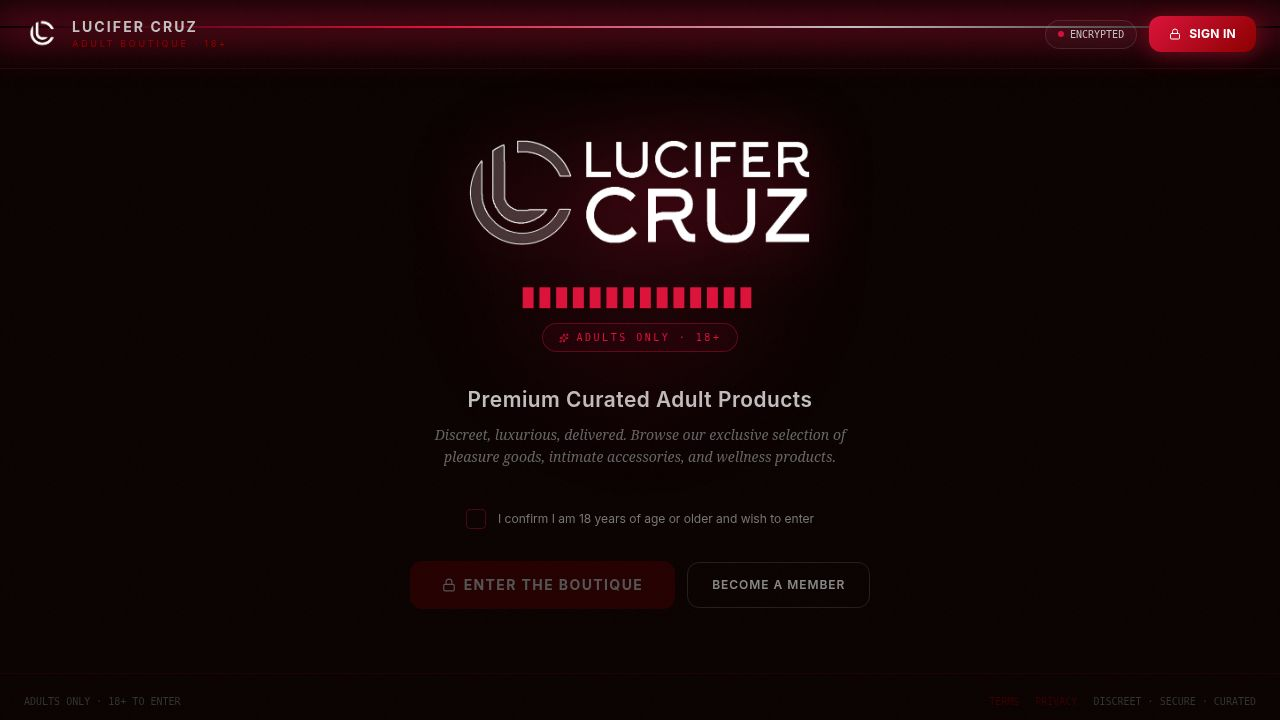
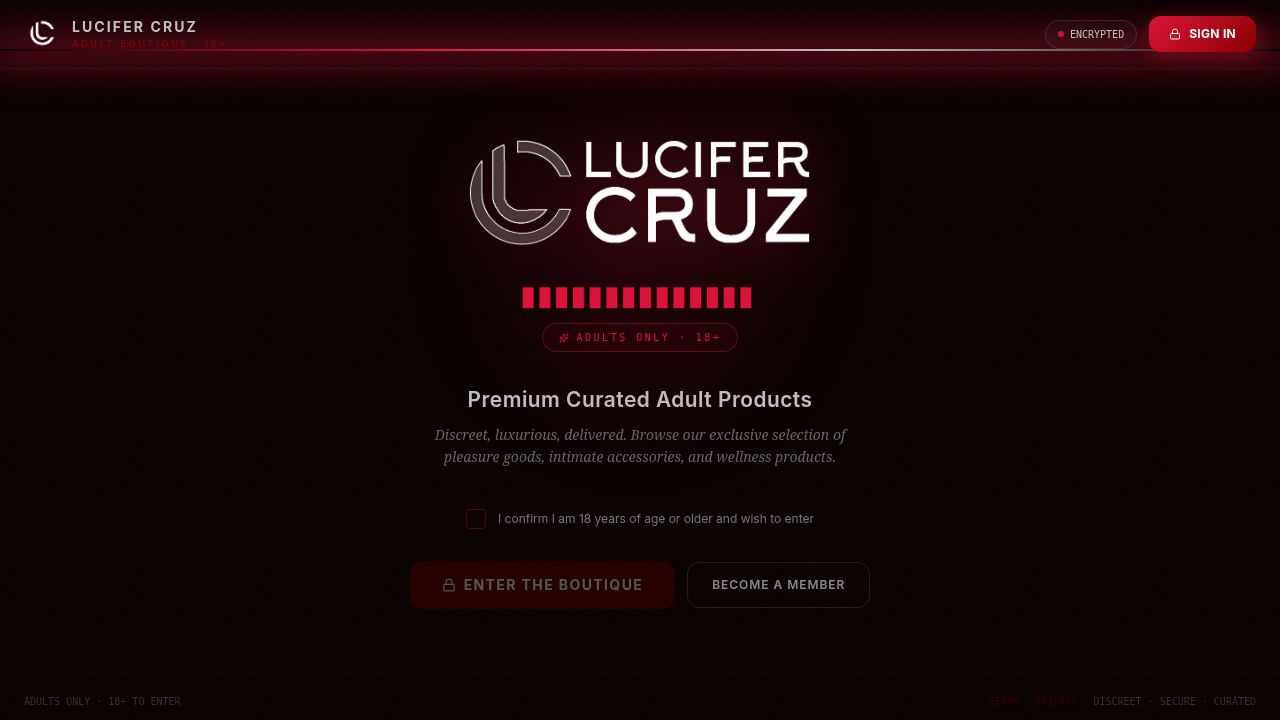
Update AI concierge character visuals with new imagery
Replace AI concierge's SVG avatar with new image assets for both chat icons and hero display, updating component references and associated metadata.

Replit-Commit-Author: Agent
Replit-Commit-Session-Id: e8a4b97a-1022-4c73-bcdc-46c5050eaf48
Replit-Commit-Checkpoint-Type: full_checkpoint
Replit-Commit-Event-Id: fe19ee9b-95f5-48da-8330-2e5466f7036d
Replit-Commit-Screenshot-Url: https://storage.googleapis.com/screenshot-production-us-central1/d16275c8-2423-4286-ba97-f9ea25b11f13/e8a4b97a-1022-4c73-bcdc-46c5050eaf48/nlFno02
Replit-Helium-Checkpoint-Created: true

Changed region(s): [[0.0, 0.0, 1.0, 0.1222]]

diff --git a/artifacts/platform/src/pages/ai-concierge.tsx b/artifacts/platform/src/pages/ai-concierge.tsx
@@ -48,163 +48,108 @@ function BackgroundField() {
   );
 }
 
-// ─── Zappy the Concierge Character ───────────────────────────────────────────
+// ─── Zappy Avatar Components ─────────────────────────────────────────────────
 type ZappyMood = "idle" | "thinking" | "speaking";
 
-const MOODS: Record<ZappyMood, { bodyA: string; bodyB: string; glowA: string; glowB: string; mouthD: string }> = {
-  idle:     { bodyA: "#3B82F6", bodyB: "#1E3A8A", glowA: "rgba(59,130,246,0.7)",  glowB: "rgba(59,130,246,0.2)",  mouthD: "M 30 64 Q 50 76 70 64" },
-  thinking: { bodyA: "#06B6D4", bodyB: "#164E63", glowA: "rgba(6,182,212,0.7)",   glowB: "rgba(6,182,212,0.2)",   mouthD: "M 38 62 Q 50 66 62 62" },
-  speaking: { bodyA: "#8B5CF6", bodyB: "#2E1065", glowA: "rgba(139,92,246,0.75)", glowB: "rgba(139,92,246,0.2)",  mouthD: "M 28 58 Q 50 78 72 58" },
+const MOOD_GLOWS: Record<ZappyMood, { a: string; b: string; ring: string }> = {
+  idle:     { a: "rgba(59,130,246,0.7)",  b: "rgba(59,130,246,0.15)",  ring: "#3B82F6" },
+  thinking: { a: "rgba(6,182,212,0.7)",   b: "rgba(6,182,212,0.15)",   ring: "#06B6D4" },
+  speaking: { a: "rgba(139,92,246,0.75)", b: "rgba(139,92,246,0.15)",  ring: "#8B5CF6" },
 };
 
-function ZappyAvatar({ size = 96, mood = "idle" }: { size?: number; mood?: ZappyMood }) {
+// Small chat-bubble avatar — icon image in a rounded square with pulsing glow
+function ZappyAvatar({ size = 36, mood = "idle" as ZappyMood }: { size?: number; mood?: ZappyMood }) {
   const shouldReduceMotion = useReducedMotion();
-  const [pupil, setPupil] = useState({ x: 0, y: 0 });
-  const [blinkLeft, setBlinkLeft] = useState(false);
-  const [blinkRight, setBlinkRight] = useState(false);
-  const m = MOODS[mood];
+  const { a, ring } = MOOD_GLOWS[mood];
+  return (
+    <motion.div
+      className="relative shrink-0 overflow-hidden"
+      style={{
+        width: size,
+        height: size,
+        borderRadius: size * 0.28,
+        border: `1px solid ${ring}55`,
+        boxShadow: `0 0 ${size * 0.5}px ${a}`,
+      }}
+      animate={shouldReduceMotion ? {} : {
+        boxShadow: [
+          `0 0 ${size * 0.5}px ${a}`,
+          `0 0 ${size * 0.9}px ${a}`,
+          `0 0 ${size * 0.5}px ${a}`,
+        ],
+      }}
+      transition={{ duration: 2, repeat: Infinity, ease: "easeInOut" }}
+    >
+      <img
+        src="/zappy-avatar.png"
+        alt="Zappy"
+        className="w-full h-full object-cover object-top"
+        style={{ filter: "brightness(1.05) contrast(1.05)" }}
+      />
+    </motion.div>
+  );
+}
 
-  // Randomized eye movement
-  useEffect(() => {
-    if (shouldReduceMotion) return;
-    let t: ReturnType<typeof setTimeout>;
-    const move = () => {
-      setPupil({ x: (Math.random() - 0.5) * 5, y: (Math.random() - 0.5) * 3.5 });
-      t = setTimeout(move, 1400 + Math.random() * 2200);
-    };
-    t = setTimeout(move, 800);
-    return () => clearTimeout(t);
-  }, [shouldReduceMotion]);
-
-  // Randomized blinking
-  useEffect(() => {
-    if (shouldReduceMotion) return;
-    let t: ReturnType<typeof setTimeout>;
-    const blink = () => {
-      const both = Math.random() > 0.3;
-      setBlinkLeft(true);
-      if (both) setBlinkRight(true);
-      setTimeout(() => { setBlinkLeft(false); setBlinkRight(false); }, 120);
-      t = setTimeout(blink, 2800 + Math.random() * 3500);
-    };
-    t = setTimeout(blink, 1500);
-    return () => clearTimeout(t);
-  }, [shouldReduceMotion]);
+// Large hero avatar — full-body portrait with orbital sparks + float
+function ZappyHero({ size = 120, mood = "idle" as ZappyMood }: { size?: number; mood?: ZappyMood }) {
+  const shouldReduceMotion = useReducedMotion();
+  const { a, b, ring } = MOOD_GLOWS[mood];
+  const h = Math.round(size * 1.42);
 
   return (
-    <div className="relative flex-shrink-0 select-none" style={{ width: size, height: size }}>
+    <motion.div
+      className="relative shrink-0"
+      style={{ width: size, height: h }}
+      animate={shouldReduceMotion ? {} : { y: [0, -10, 0] }}
+      transition={{ duration: 3.5, repeat: Infinity, ease: "easeInOut" }}
+    >
       {/* Orbital sparks */}
-      {!shouldReduceMotion && (
-        <>
-          <div className="zappy-orbit-wrap" style={{ width: size, height: size }}>
-            <div className="zappy-orbit-1" style={{ width: 8, height: 8, background: m.glowA, borderRadius: "50%", boxShadow: `0 0 10px ${m.glowA}` }} />
-          </div>
-          <div className="zappy-orbit-wrap" style={{ width: size, height: size, animationDelay: "-1.4s" }}>
-            <div className="zappy-orbit-2" style={{ width: 6, height: 6, background: "rgba(245,158,11,0.9)", borderRadius: "50%", boxShadow: "0 0 10px rgba(245,158,11,0.6)" }} />
-          </div>
-          <div className="zappy-orbit-wrap" style={{ width: size, height: size, animationDelay: "-2.8s" }}>
-            <div className="zappy-orbit-3" style={{ width: 5, height: 5, background: "rgba(167,139,250,0.9)", borderRadius: "50%", boxShadow: "0 0 10px rgba(167,139,250,0.6)" }} />
-          </div>
-        </>
-      )}
+      {!shouldReduceMotion && [
+        { delay: "0s",    color: ring,                    size: 8 },
+        { delay: "-1.4s", color: "rgba(245,158,11,0.9)", size: 6 },
+        { delay: "-2.8s", color: "rgba(167,139,250,0.9)", size: 5 },
+      ].map((spark, i) => (
+        <div key={i} className="zappy-orbit-wrap" style={{ width: size, height: h, animationDelay: spark.delay }}>
+          <div style={{ width: spark.size, height: spark.size, borderRadius: "50%", background: spark.color, boxShadow: `0 0 14px ${spark.color}` }} />
+        </div>
+      ))}
 
-      {/* Body bouncy wrapper */}
+      {/* Animated outer ring */}
       <motion.div
-        className="absolute inset-2"
-        animate={shouldReduceMotion ? {} : { scaleY: [1, 0.93, 1.06, 0.98, 1], scaleX: [1, 1.06, 0.95, 1.02, 1] }}
-        transition={{ duration: 1.9, repeat: Infinity, ease: "easeInOut" }}
-        style={{ transformOrigin: "bottom center" }}
+        className="absolute rounded-2xl pointer-events-none"
+        style={{ inset: -5, border: `1px solid ${ring}`, opacity: 0.3 }}
+        animate={shouldReduceMotion ? {} : { opacity: [0.15, 0.5, 0.15], scale: [1, 1.02, 1] }}
+        transition={{ duration: 2.4, repeat: Infinity, ease: "easeInOut" }}
+      />
+
+      {/* Second outer ring */}
+      <motion.div
+        className="absolute rounded-3xl pointer-events-none"
+        style={{ inset: -14, border: `1px solid ${ring}`, opacity: 0.1 }}
+        animate={shouldReduceMotion ? {} : { opacity: [0.05, 0.2, 0.05], scale: [1, 1.03, 1] }}
+        transition={{ duration: 2.4, repeat: Infinity, ease: "easeInOut", delay: 0.4 }}
+      />
+
+      {/* Image */}
+      <div
+        className="absolute rounded-2xl overflow-hidden"
+        style={{ inset: 0, boxShadow: `0 0 50px ${a}, 0 0 100px ${b}, 0 24px 80px rgba(0,0,0,0.5)` }}
       >
-        <svg
-          viewBox="0 0 100 100"
-          width="100%"
-          height="100%"
-          style={{ overflow: "visible", filter: `drop-shadow(0 0 12px ${m.glowA}) drop-shadow(0 0 28px ${m.glowB})` }}
-        >
-          <defs>
-            <radialGradient id={`zg-body-${mood}`} cx="35%" cy="28%">
-              <stop offset="0%" stopColor={m.bodyA} stopOpacity="0.7" />
-              <stop offset="100%" stopColor={m.bodyB} stopOpacity="0.95" />
-            </radialGradient>
-          </defs>
-
-          {/* Main head circle */}
-          <circle cx="50" cy="52" r="40" fill={`url(#zg-body-${mood})`} stroke={m.bodyA} strokeWidth="1.5" strokeOpacity="0.6" />
-
-          {/* Shine highlight */}
-          <ellipse cx="36" cy="36" rx="11" ry="8" fill="white" opacity="0.18" />
-
-          {/* Cheek blush */}
-          <circle cx="24" cy="60" r="9" fill="rgba(248,113,113,0.2)" />
-          <circle cx="76" cy="60" r="9" fill="rgba(248,113,113,0.2)" />
-
-          {/* Left eye */}
-          <circle cx="35" cy="48" r="10" fill="white" opacity="0.92" />
-          <motion.circle
-            cx={35 + pupil.x}
-            cy={48 + pupil.y}
-            r={blinkLeft ? 0.6 : 6}
-            fill="#1E40AF"
-            transition={{ duration: 0.08 }}
-          />
-          {!blinkLeft && <circle cx={36.5 + pupil.x} cy={45.5 + pupil.y} r="2.2" fill="white" />}
-
-          {/* Right eye */}
-          <circle cx="65" cy="48" r="10" fill="white" opacity="0.92" />
-          <motion.circle
-            cx={65 + pupil.x}
-            cy={48 + pupil.y}
-            r={blinkRight ? 0.6 : 6}
-            fill="#1E40AF"
-            transition={{ duration: 0.08 }}
-          />
-          {!blinkRight && <circle cx={66.5 + pupil.x} cy={45.5 + pupil.y} r="2.2" fill="white" />}
-
-          {/* Mouth */}
-          <motion.path
-            d={m.mouthD}
-            stroke={m.bodyA}
-            strokeWidth="3.5"
-            fill="none"
-            strokeLinecap="round"
-            animate={{ d: m.mouthD }}
-            transition={{ duration: 0.35 }}
-          />
-
-          {/* Lightning bolt "hair" */}
-          <motion.path
-            d="M 32 13 L 28 22 L 33 22 L 26 31"
-            stroke="#FCD34D"
-            strokeWidth="2.5"
-            fill="none"
-            strokeLinecap="round"
-            animate={shouldReduceMotion ? {} : { opacity: [1, 0.4, 1], rotate: [-5, 5, -5] }}
-            transition={{ duration: 0.9, repeat: Infinity, ease: "easeInOut" }}
-            style={{ transformOrigin: "32px 22px" }}
-          />
-          <motion.path
-            d="M 50 8 L 46 18 L 52 18 L 45 28"
-            stroke="#60A5FA"
-            strokeWidth="3"
-            fill="none"
-            strokeLinecap="round"
-            animate={shouldReduceMotion ? {} : { opacity: [1, 0.5, 1], rotate: [0, -8, 0] }}
-            transition={{ duration: 0.7, repeat: Infinity, ease: "easeInOut", delay: 0.15 }}
-            style={{ transformOrigin: "50px 18px" }}
-          />
-          <motion.path
-            d="M 68 13 L 72 22 L 67 22 L 74 31"
-            stroke="#FCD34D"
-            strokeWidth="2.5"
-            fill="none"
-            strokeLinecap="round"
-            animate={shouldReduceMotion ? {} : { opacity: [1, 0.4, 1], rotate: [5, -5, 5] }}
-            transition={{ duration: 0.85, repeat: Infinity, ease: "easeInOut", delay: 0.25 }}
-            style={{ transformOrigin: "68px 22px" }}
-          />
-        </svg>
-      </motion.div>
-    </div>
+        <img
+          src="/zappy-full.png"
+          alt="Alavont AI"
+          className="w-full h-full object-cover object-top"
+          style={{ filter: "brightness(1.08) saturate(1.1)" }}
+        />
+        {/* Mood-colored energy pulse overlay */}
+        <motion.div
+          className="absolute inset-0 pointer-events-none"
+          style={{ background: `radial-gradient(circle at 50% 30%, ${a} 0%, transparent 65%)`, mixBlendMode: "screen" }}
+          animate={shouldReduceMotion ? {} : { opacity: [0, 0.25, 0] }}
+          transition={{ duration: 1.8, repeat: Infinity, ease: "easeInOut" }}
+        />
+      </div>
+    </motion.div>
   );
 }
 
@@ -303,7 +248,7 @@ function WelcomeModal({ onClose }: { onClose: () => void }) {
             animate={shouldReduceMotion ? {} : { y: [0, -8, 0] }}
             transition={{ duration: 0.6, repeat: Infinity, ease: "easeInOut" }}
           >
-            <ZappyAvatar size={88} mood="speaking" />
+            <ZappyHero size={88} mood="speaking" />
           </motion.div>
 
           {/* Step content */}
@@ -451,7 +396,7 @@ export default function AiConcierge() {
           animate={{ opacity: 1, y: 0 }}
           transition={{ type: "spring", stiffness: 300, damping: 24 }}
         >
-          <ZappyAvatar size={72} mood={zappyMood} />
+          <ZappyHero size={72} mood={zappyMood} />
           <div className="flex-1 min-w-0">
             <div className="flex items-center gap-2 flex-wrap">
               <h1 className="text-2xl font-black tracking-tight" data-testid="text-title">Zappy</h1>
@@ -670,7 +615,7 @@ export default function AiConcierge() {
                       animate={{ y: [0, -6, 0] }}
                       transition={{ duration: 2, repeat: Infinity, ease: "easeInOut" }}
                     >
-                      <ZappyAvatar size={52} mood="idle" />
+                      <ZappyHero size={52} mood="idle" />
                     </motion.div>
                     <p className="text-[11px] text-muted-foreground/50 mt-4 leading-relaxed max-w-[140px]">
                       Ask me what you're looking for and I'll recommend something here